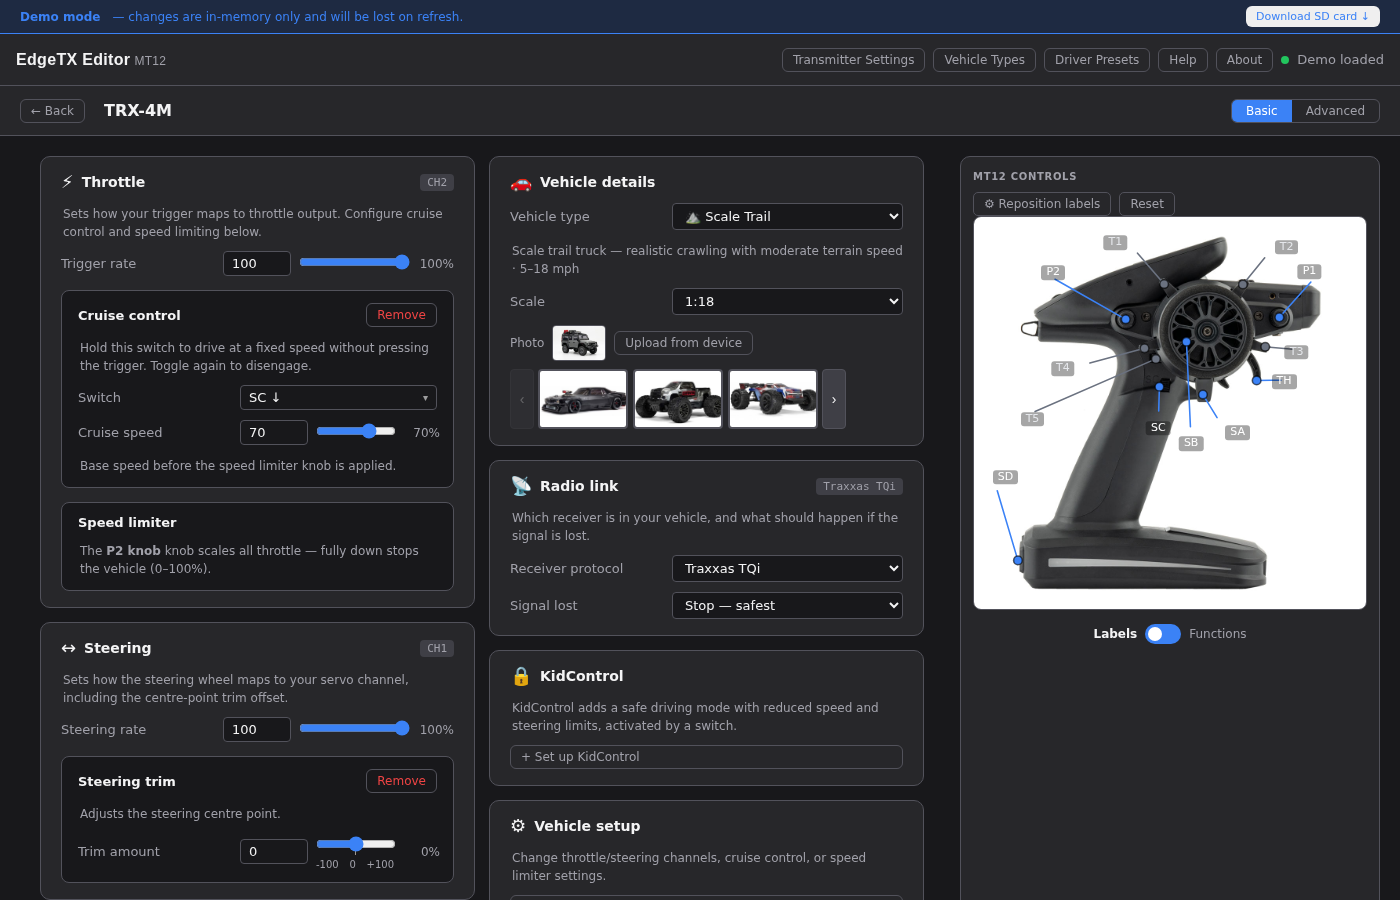
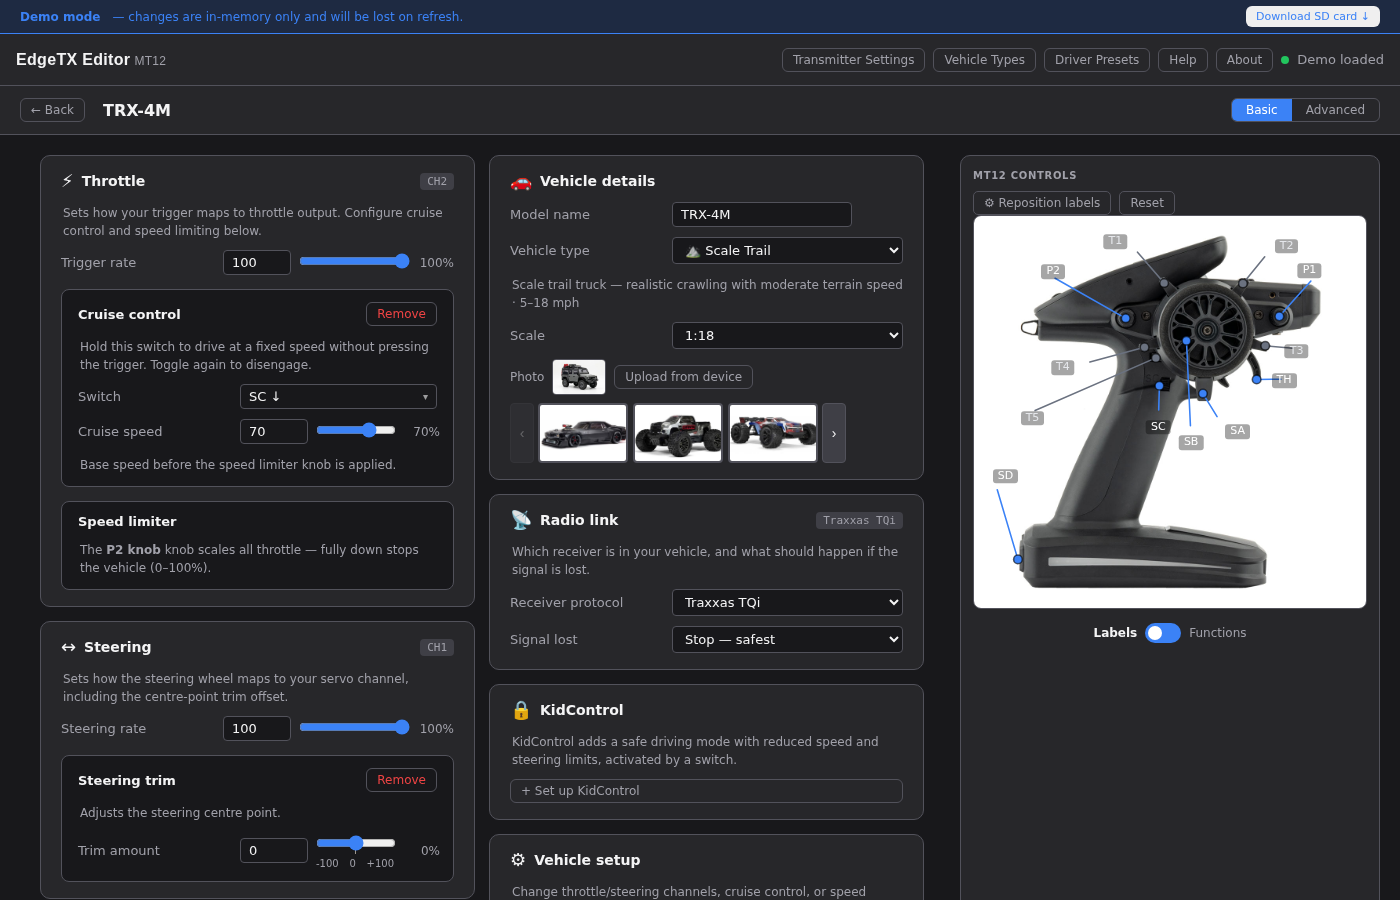
fix: model name read-only in title bar, editable in vehicle details panel
Title bar now shows model name as a static label (nameDisplay) in both
Basic and Advanced views. Editable name input added to the Vehicle details
card in Basic view. Advanced view Vehicle tab already had the field.
Manual and screenshots updated to match.

diff --git a/src/pages/ModelEditor.tsx b/src/pages/ModelEditor.tsx
@@ -287,16 +287,7 @@ export function ModelEditor({ modelKey, navigate }: Props) {
           {isDirty && (
             <button className="btn btn-primary btn-sm" onClick={() => saveModel(modelKey)}>Save</button>
           )}
-          {!wizardActive && (
-            <input
-              type="text"
-              className={css.nameInput}
-              value={model.header?.name ?? ''}
-              placeholder={modelKey}
-              maxLength={15}
-              onChange={(e) => handleChange((m) => ({ ...m, header: { ...m.header, name: e.target.value } }))}
-            />
-          )}
+          <span className={css.nameDisplay}>{model.header?.name || modelKey}</span>
           {isDirty && <span className="badge badge-warning">Unsaved</span>}
           <div style={{ flex: 1 }} />
           <div className={css.toggleGroup}>
@@ -338,14 +329,7 @@ export function ModelEditor({ modelKey, navigate }: Props) {
         {isDirty && (
           <button className="btn btn-primary btn-sm" onClick={() => saveModel(modelKey)}>Save</button>
         )}
-        <input
-          type="text"
-          className={css.nameInput}
-          value={model.header?.name ?? ''}
-          placeholder={modelKey}
-          maxLength={15}
-          onChange={(e) => handleChange((m) => ({ ...m, header: { ...m.header, name: e.target.value } }))}
-        />
+        <span className={css.nameInput}>{model.header?.name || modelKey}</span>
         {isDirty && <span className="badge badge-warning">Unsaved</span>}
         <div style={{ flex: 1 }} />
         <div className={css.toggleGroup}>

diff --git a/src/pages/ModelEditor.module.css b/src/pages/ModelEditor.module.css
@@ -38,6 +38,19 @@
   background: var(--bg);
 }
 
+.nameDisplay {
+  font-size: 16px;
+  font-weight: 600;
+  color: var(--text);
+  padding: 2px 6px;
+  font-family: var(--font);
+  min-width: 80px;
+  max-width: 240px;
+  overflow: hidden;
+  text-overflow: ellipsis;
+  white-space: nowrap;
+}
+
 /* Model photo button in topBar */
 .photoBtn {
   width: 36px;

diff --git a/src/components/mixes/BasicMixView.tsx b/src/components/mixes/BasicMixView.tsx
@@ -219,6 +219,17 @@ function RecognisedView({ model, modelKey, analysis, onChange, onRunWizard, onRu
           <span className={css.cardTitle}>Vehicle details</span>
         </div>
         <div className={css.fieldRow}>
+          <span className={css.fieldLabel}>Model name</span>
+          <input
+            type="text"
+            style={{ background:'var(--bg)', color:'var(--text)', border:'1px solid var(--border)', borderRadius:4, padding:'4px 8px', fontSize:13, fontFamily:'var(--font)', width:180 }}
+            value={model.header?.name ?? ''}
+            placeholder={modelKey}
+            maxLength={15}
+            onChange={(e) => onChange(m => ({ ...m, header: { ...m.header, name: e.target.value } }))}
+          />
+        </div>
+        <div className={css.fieldRow}>
           <span className={css.fieldLabel}>Vehicle type</span>
           <select
             style={{ background:'var(--bg)', color:'var(--text)', border:'1px solid var(--border)', borderRadius:4, padding:'4px 8px', fontSize:13, fontFamily:'var(--font)' }}

diff --git a/docs/user-manual.md b/docs/user-manual.md
@@ -158,6 +158,7 @@ If a gyro gain channel is configured, a card shows which knob controls gyro sens
 
 | Field | Description |
 |-------|-------------|
+| Model name | Editable name (up to 15 characters) shown on the transmitter screen and the model list card. The top bar displays this name as read-only; edit it here. |
 | Vehicle type | Links this model to a [Vehicle Type](#17-vehicle-types), which provides KidControl presets |
 | Scale | The 1:N scale of your vehicle (metadata only, stored on the SD card) |
 
@@ -340,7 +341,7 @@ The Vehicle tab gives access to model identity, vehicle type, and radio link set
 
 ### Model name
 
-An editable text field (max 15 characters) for the model name — identical to the name input in the editor top bar. Changes here update the name shown on the transmitter screen and on the model list card.
+An editable text field (max 15 characters) for the model name. The editor top bar shows the current name as read-only text — this field is the only place to change it. Changes update the name shown on the transmitter screen and on the model list card.
 
 ### Vehicle type
 